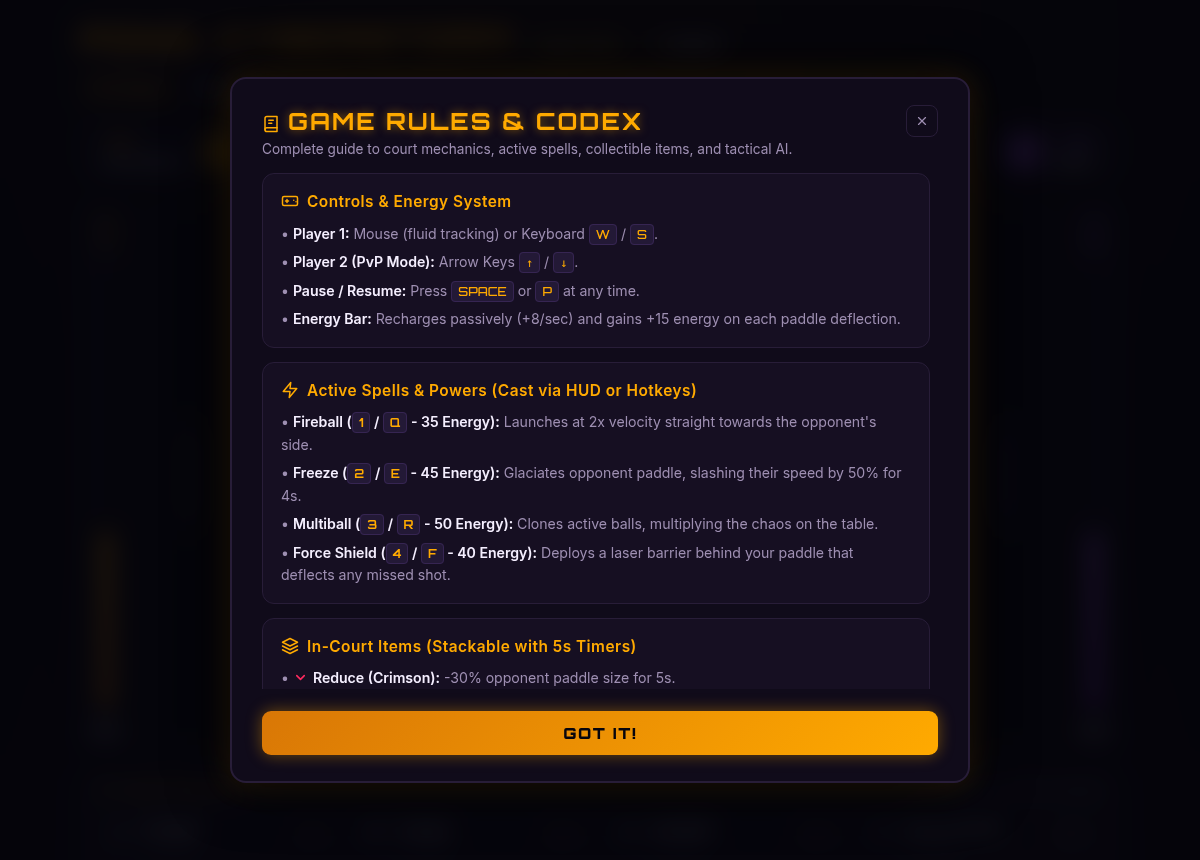
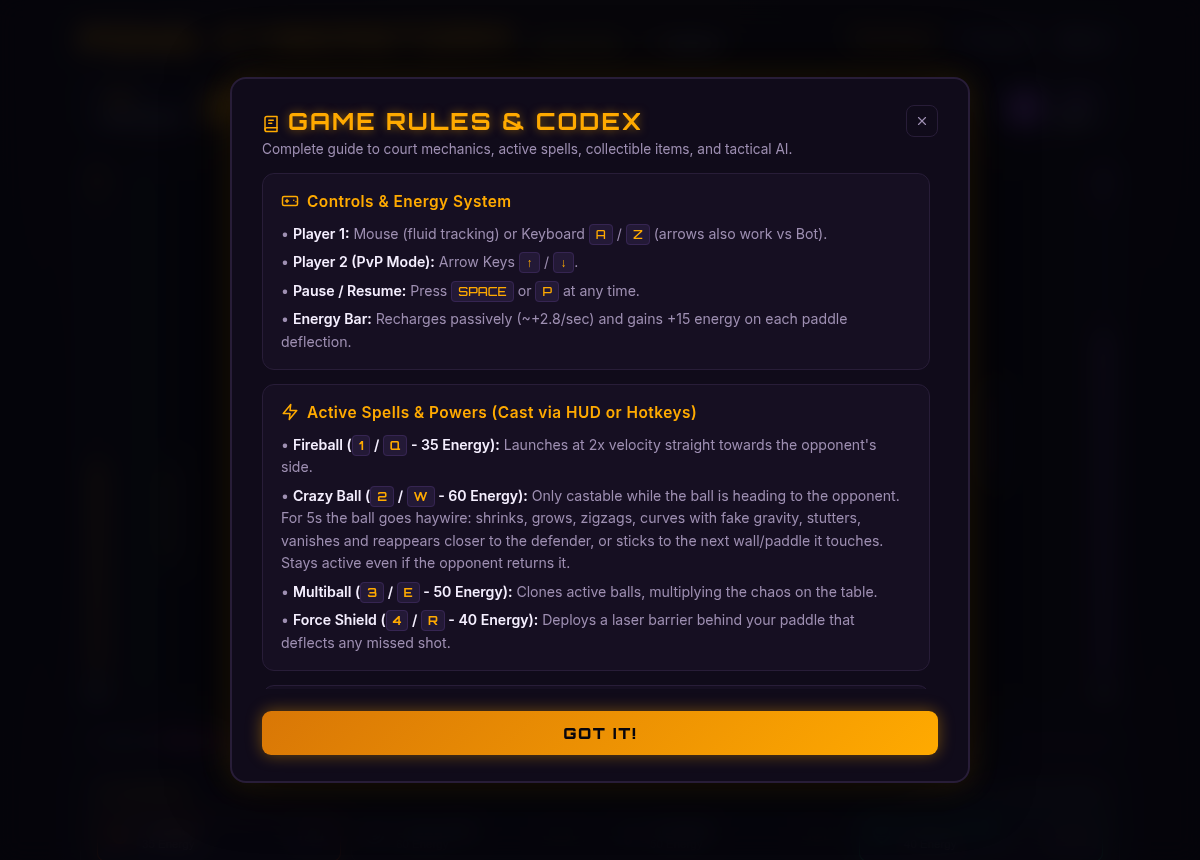
Update README, screenshots and gameplay GIF

diff --git a/README.md b/README.md
@@ -14,7 +14,7 @@ In *Pong: Cyberstorm*, matches are played to a customizable target score (defaul
 
 ### Energy System
 Both competitors possess an independent **Energy Capacitor** (ranging from `0%` to `100%`) displayed on side energy columns flanking the court:
-- **Passive Generation:** Regenerates constantly at `+8%` energy per second.
+- **Passive Generation:** Regenerates constantly at roughly `+2.8%` energy per second.
 - **Deflection Bonus:** Successfully striking the ball with your paddle yields an instant `+15%` energy surge.
 - **Strategic Deployment:** Energy fuels your tactical spells; managing capacitor levels is essential to counter enemy attacks and mount breakneck offensives.
 
@@ -27,9 +27,26 @@ Players can cast four distinct cyber-abilities during active play. Spells can be
 | Spell | Icon | Cost | Hotkeys | Description & Strategic Effect |
 | :--- | :---: | :---: | :---: | :--- |
 | **Fireball** | <img src="assets/icons/fireball.svg" width="18" height="18" alt="Fireball" /> | `35 Energy` | <kbd>1</kbd> / <kbd>Q</kbd> | Accelerates the ball to **2x velocity** in a blaze of red particles directly toward the opponent's goal line. |
-| **Freeze** | <img src="assets/icons/freeze.svg" width="18" height="18" alt="Freeze" /> | `45 Energy` | <kbd>2</kbd> / <kbd>E</kbd> | Glaciates the opponent's paddle with a frost aura, reducing their movement speed by **50% for 4 seconds**. |
-| **Multiball** | <img src="assets/icons/multiball.svg" width="18" height="18" alt="Multiball" /> | `50 Energy` | <kbd>3</kbd> / <kbd>R</kbd> | Clones active balls on the arena, multiplying trajectories and overwhelming opponent defenses. |
-| **Force Shield** | <img src="assets/icons/shield.svg" width="18" height="18" alt="Force Shield" /> | `40 Energy` | <kbd>4</kbd> / <kbd>F</kbd> | Deploys a laser barrier behind your paddle that deflects any missed shot, granting a second chance. |
+| **Crazy Ball** | <img src="assets/icons/crazy-ball.svg" width="18" height="18" alt="Crazy Ball" /> | `60 Energy` | <kbd>2</kbd> / <kbd>W</kbd> | Castable only while the ball is heading toward the opponent (after your hit or a wall ricochet). For **5 seconds** the ball turns into a shimmering rainbow glitch and goes haywire (see below). The chaos persists even if the opponent returns the ball. |
+| **Multiball** | <img src="assets/icons/multiball.svg" width="18" height="18" alt="Multiball" /> | `50 Energy` | <kbd>3</kbd> / <kbd>E</kbd> | Clones active balls on the arena, multiplying trajectories and overwhelming opponent defenses. |
+| **Force Shield** | <img src="assets/icons/shield.svg" width="18" height="18" alt="Force Shield" /> | `40 Energy` | <kbd>4</kbd> / <kbd>R</kbd> | Deploys a laser barrier behind your paddle that deflects any missed shot, granting a second chance. |
+
+### <img src="assets/icons/crazy-ball.svg" width="20" height="20" alt="Crazy Ball" /> Crazy Ball Behaviors
+
+While active, the ball rolls a new random behavior roughly every second (never the same one twice in a row):
+
+| Behavior | Effect |
+| :--- | :--- |
+| **Shrink** | Collapses into a tiny, hard-to-track dot. |
+| **Grow** | Balloons to double size and pulsates. |
+| **Zigzag** | Snakes up and down along its path. |
+| **Fake Gravity** | An unreal sideways pull bends the trajectory into a curve. |
+| **Stutter** | Freezes mid-air, then dashes forward in bursts. |
+| **Blink** | Vanishes completely, then reappears closer to the defender at a new height (always leaving a fair reaction window). |
+| **Sticky** | Glues to the next wall or paddle it touches, then fires off at a random angle. |
+| **Fake-out** | Pulls sudden vertical U-turns mid-flight. |
+
+The ball never reverses its horizontal direction on its own, and returns to normal size and speed once the 5 seconds expire.
 
 ---
 
@@ -47,24 +64,40 @@ Throughout the match, cybernetic item cubes periodically materialize on the cour
 
 ---
 
+## Interface & HUD
+
+- **Header:** match target badge, match timer, and three buttons: **Settings** (Match Setup), **Options** (Game Options) and **Info** (Rules Codex).
+- **Side Energy Bars:** slim capacitor meters flanking the court for each player.
+- **Event Feed:** a discreet strip above the powers bar listing the latest power casts, item pickups, shield blocks and bomb detonations as small color-coded chips that fade after a few seconds, keeping the court itself clean.
+- **Powers Bar:** clickable buttons for each power, showing cost, hotkeys and whether you can currently afford it.
+- **Modals:** every modal can be closed with its **×** button or <kbd>Esc</kbd>. Dismissing Match Setup mid-match returns you to the paused game.
+
+---
+
 ## Controls & View Modes
 
 ### Control Schemes
 
 | Action | Player 1 (Left) | Player 2 (Right, PvP) |
 | :--- | :--- | :--- |
-| **Paddle Movement** | **Mouse** (smooth 1:1 tracking) or <kbd>W</kbd> / <kbd>S</kbd> | Arrow Keys <kbd>↑</kbd> / <kbd>↓</kbd> |
-| **Cast Fireball** | <kbd>1</kbd> or <kbd>Q</kbd> | — |
-| **Cast Freeze** | <kbd>2</kbd> or <kbd>E</kbd> | — |
-| **Cast Multiball** | <kbd>3</kbd> or <kbd>R</kbd> | — |
-| **Cast Force Shield** | <kbd>4</kbd> or <kbd>F</kbd> | — |
+| **Paddle Movement** | **Mouse** (smooth 1:1 tracking) or <kbd>A</kbd> / <kbd>Z</kbd> (arrows also work vs Bot) | Arrow Keys <kbd>↑</kbd> / <kbd>↓</kbd> |
+| **Cast Fireball** | <kbd>1</kbd> or <kbd>Q</kbd> | <kbd>7</kbd> |
+| **Cast Crazy Ball** | <kbd>2</kbd> or <kbd>W</kbd> | <kbd>8</kbd> |
+| **Cast Multiball** | <kbd>3</kbd> or <kbd>E</kbd> | <kbd>9</kbd> |
+| **Cast Force Shield** | <kbd>4</kbd> or <kbd>R</kbd> | <kbd>0</kbd> |
 
 ### System & Navigation Hotkeys
 - <kbd>Space</kbd> or <kbd>P</kbd>: Pause / Resume active match.
-- <kbd>R</kbd>: Restart match directly.
-- <kbd>Esc</kbd>: Dismiss open modal dialogues (Match Setup, Rules Codex, Match Over).
-- **Theater Mode:** Broadens arena framing for an immersive, widescreen experience.
-- **Fullscreen Mode:** Expands court presentation to native full display resolution.
+- <kbd>R</kbd> (while paused): Restart match directly.
+- <kbd>Esc</kbd> or the **×** button: Dismiss open modal dialogues (Match Setup, Game Options, Rules Codex, Match Over).
+
+### Game Options
+Opened from the **Options** header button (pauses the match), it groups the quick toggles that can be changed without restarting:
+- **View Mode:** Standard or **Theater** (broadens arena framing for an immersive, widescreen experience).
+- **Fullscreen:** Expands court presentation to native full display resolution.
+- **P1 Control Mode:** Mouse or Keyboard (<kbd>A</kbd> / <kbd>Z</kbd>).
+- **Opponent & AI Difficulty:** vs Bot (Easy / Medium / Insane) or 2 Players.
+- **Sound:** On or Muted.
 
 ---
 
@@ -74,6 +107,7 @@ Throughout the match, cybernetic item cubes periodically materialize on the cour
   - **Easy:** Relaxed tracking with reaction delays and minor aiming variances.
   - **Medium:** Balanced calculation, solid paddle positioning, and measured spell reactions.
   - **Insane:** Instant predictive pathfinding, angular slice deflections, and aggressive spell usage.
+  - On Medium and Insane the bot casts **Crazy Ball** right after returning the ball, and it loses track of a vanished Crazy Ball just like you would.
 - **2-Player Local PvP Mode:** Head-to-head competition on the same keyboard or mouse + keyboard combo.
 
 ---
@@ -84,9 +118,13 @@ Throughout the match, cybernetic item cubes periodically materialize on the cour
 | :---: | :---: |
 | ![Match Setup](assets/screenshot-1-setup.png) | ![Rules Codex](assets/screenshot-2-codex.png) |
 
-| Pre-Match Countdown | Post-Match Analytics & Victory |
+| Pre-Match Countdown | Crazy Ball in Action |
 | :---: | :---: |
-| ![Countdown](assets/screenshot-3-countdown.png) | ![Match Stats](assets/screenshot-5-victory.png) |
+| ![Countdown](assets/screenshot-3-countdown.png) | ![Crazy Ball Gameplay](assets/screenshot-4-gameplay.png) |
+
+| Post-Match Analytics & Victory |
+| :---: |
+| ![Match Stats](assets/screenshot-5-victory.png) |
 
 ---
 
@@ -97,11 +135,11 @@ Built from the ground up prioritizing zero dependencies, fast 60+ FPS execution,
 - **Frontend & Rendering:** Pure HTML5 Canvas and CSS3 with custom design tokens, Orbitron & Inter typography, and retro scanline effects.
 - **Modular Architecture:** Separation of concerns across dedicated modules:
   - `SoundController.js`: Complete procedural audio synthesizer using the native Web Audio API (oscillators, biquad filters, distortion curves, and exponential gain ramps). Zero external audio files required.
-  - `Ball.js`: Physics-based deflection geometry, velocity clamping, trail particle emission, and status effects.
+  - `Ball.js`: Physics-based deflection geometry, velocity clamping, trail particle emission, and status effects (Fireball, Crazy Ball chaos state, Bomb, Invisibility).
   - `CourtItem.js`: Procedural item spawning, canvas rendering, collision detection, and stackable effect timers.
   - `TacticalAI.js`: Multi-difficulty predictive ball interceptor and spell-casting intelligence.
-  - `UIManager.js`: DOM manipulation, HUD rendering, modal controls, and score updates.
-  - `PongGame.js`: Master game loop, state machine, collision resolution, and lifecycle coordination.
+  - `UIManager.js`: DOM manipulation, HUD rendering, event feed, modal controls (Match Setup, Game Options, Codex, Match Over), and score updates.
+  - `PongGame.js`: Master game loop, state machine, collision resolution, Crazy Ball behavior engine, and lifecycle coordination.
 - **Security & Quality Hardened:**
   - **Zero innerHTML:** 100% of UI elements and SVG vector icons are rendered declaratively or via DOM-safe APIs (`classList.toggle`, `textContent`), fully mitigating XSS injection risks.
   - **Strict Content-Security-Policy (CSP):** Locked down against external script injection and unauthorized resource loading.
